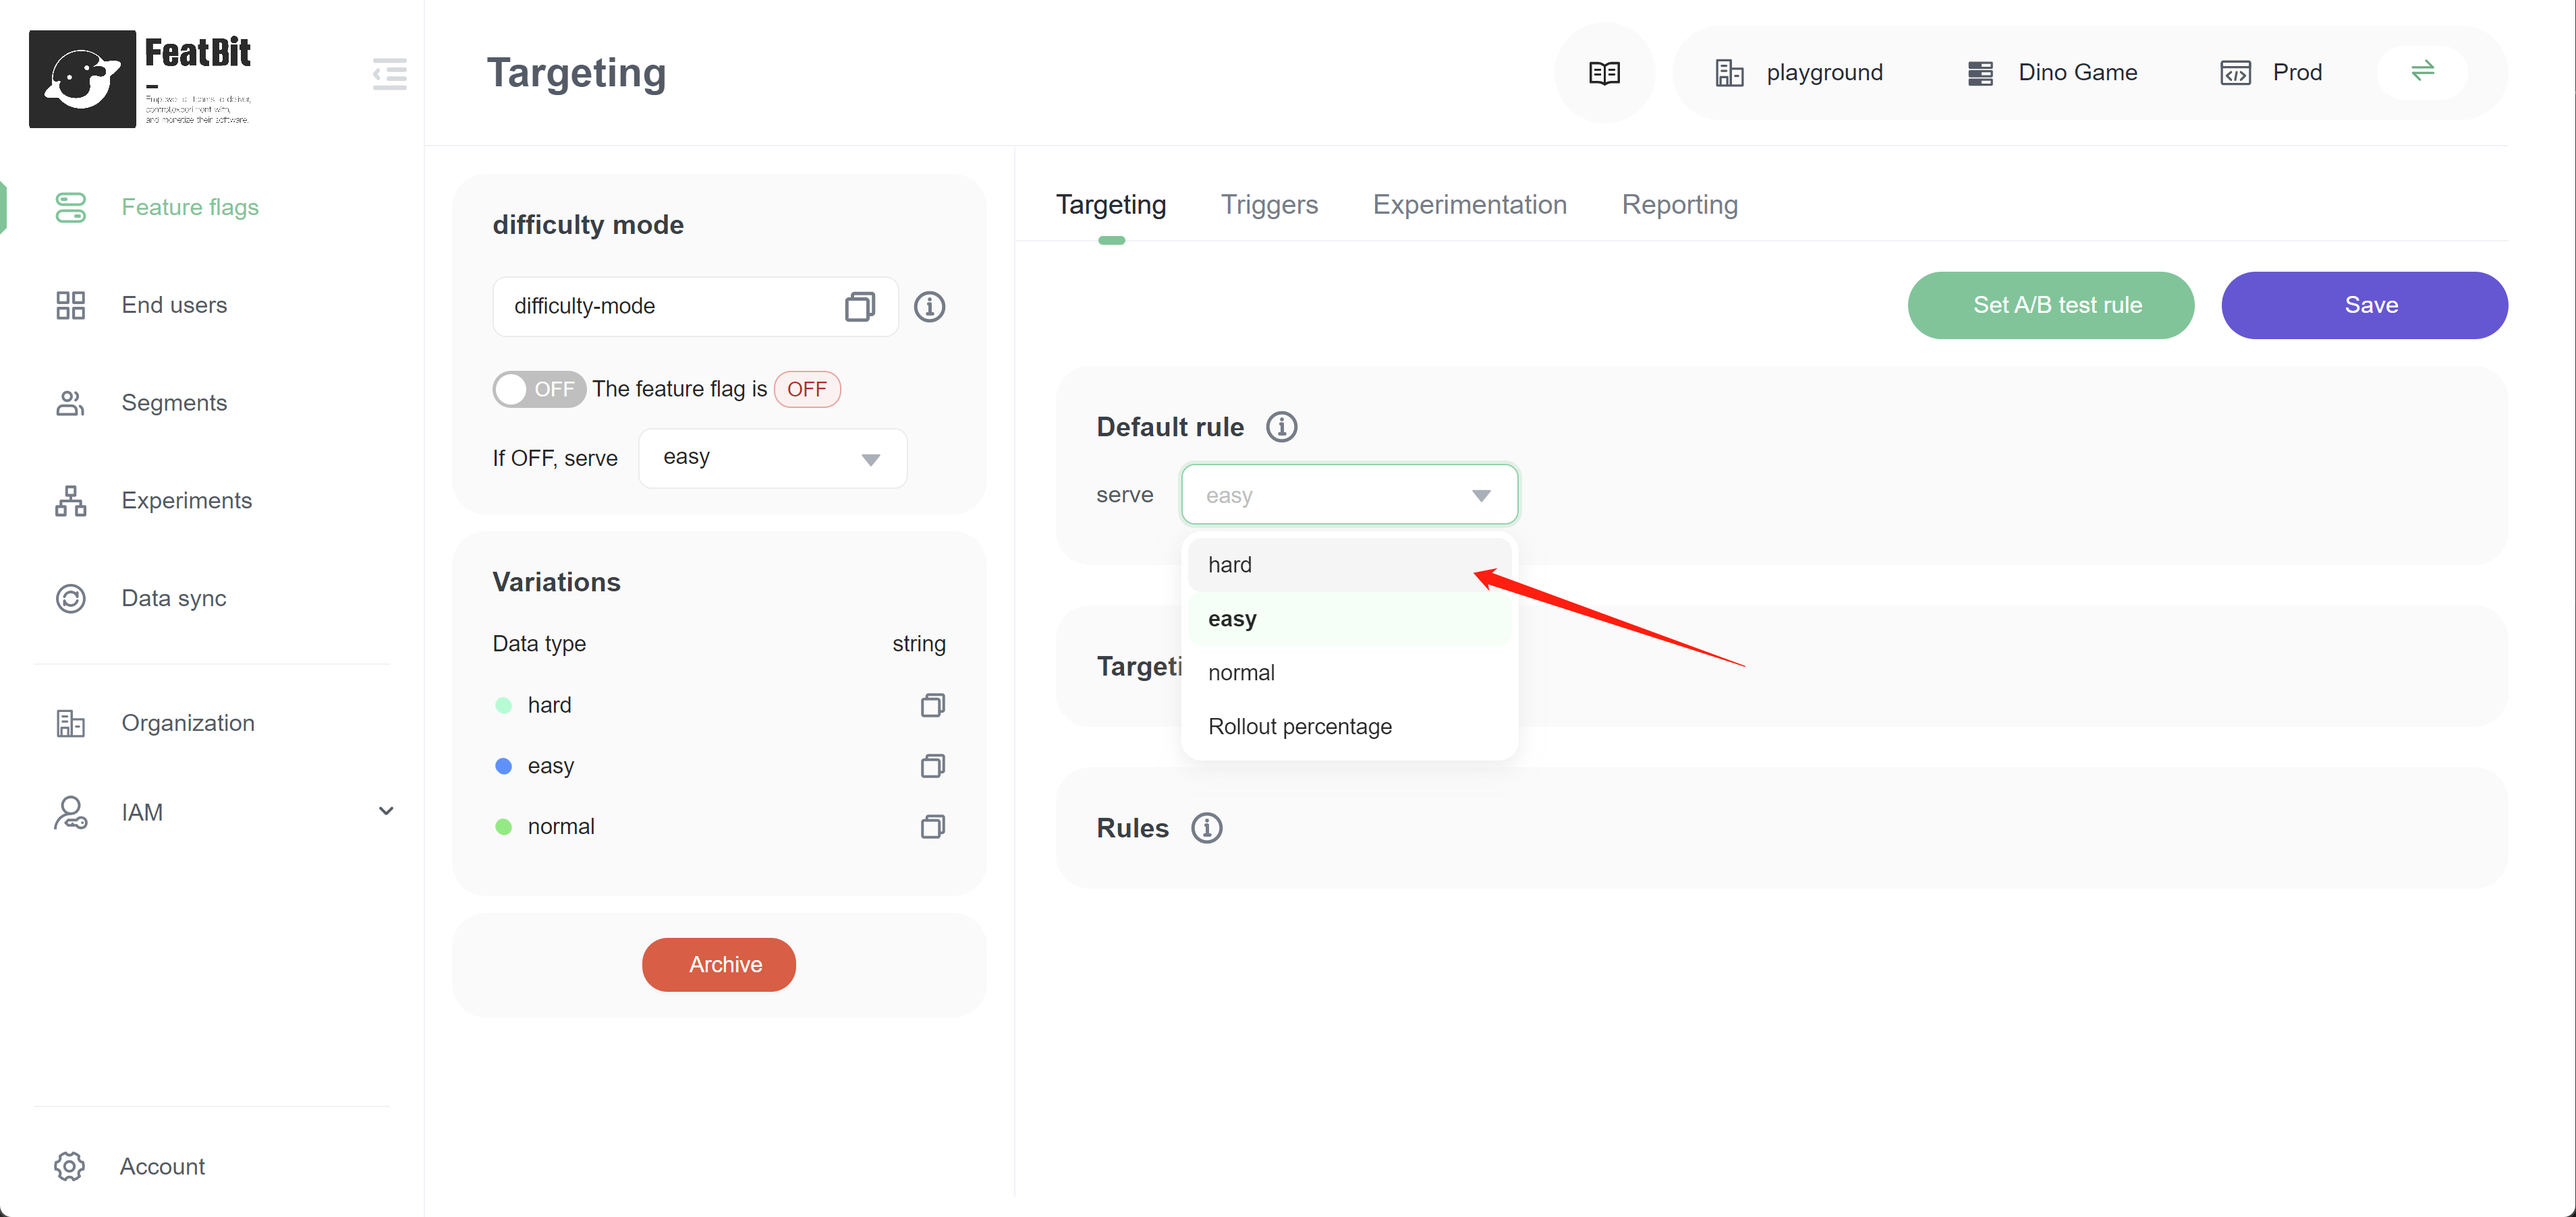
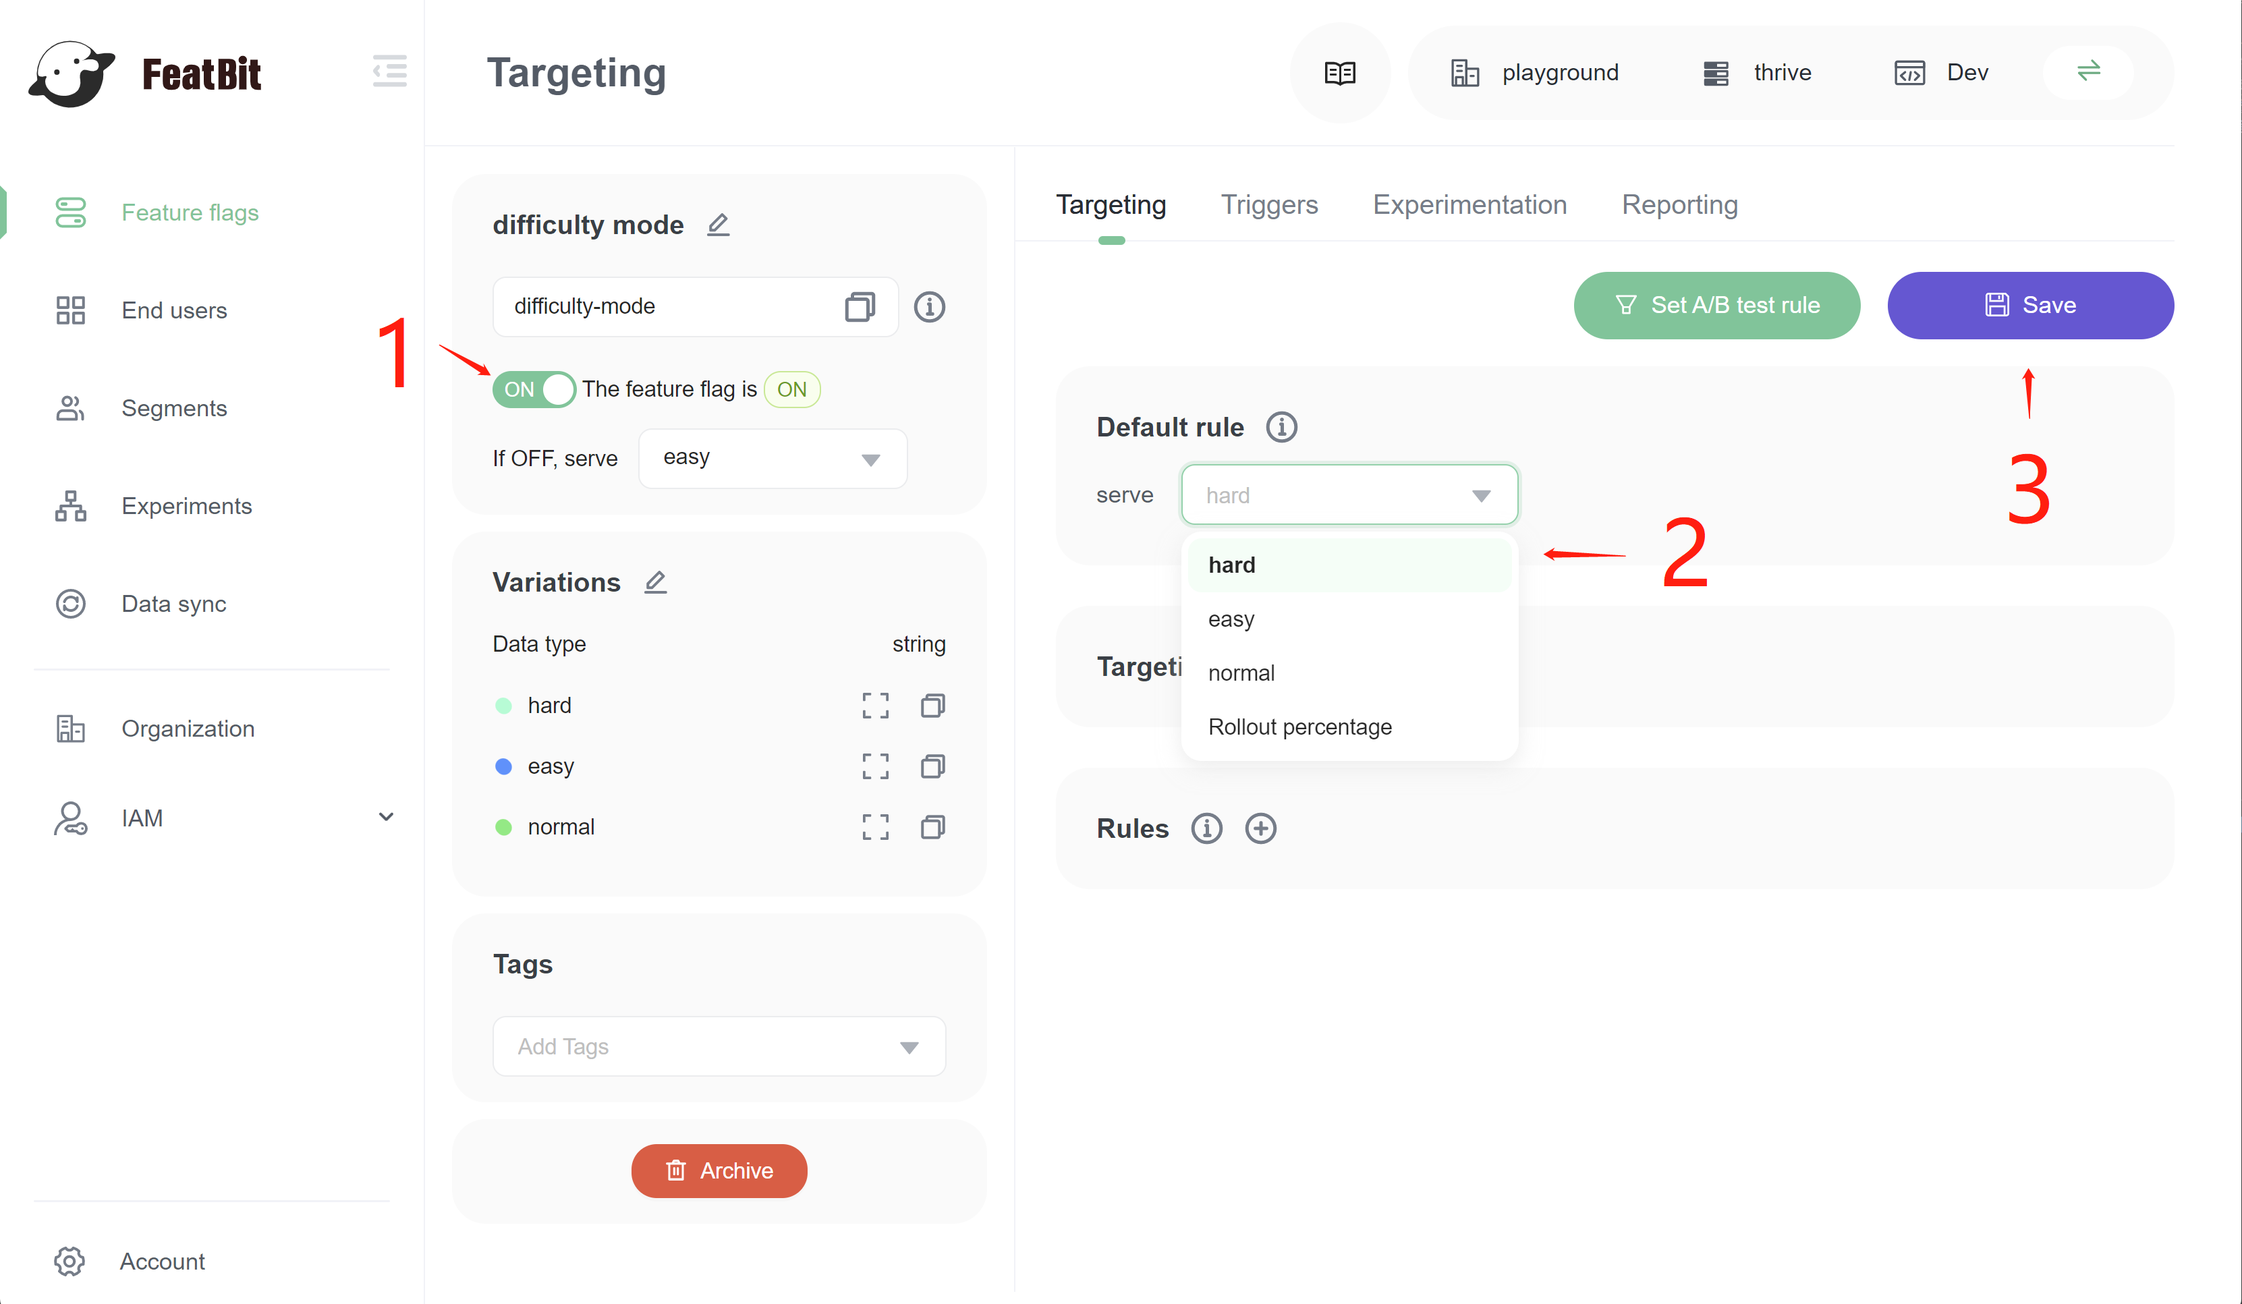
updated the images

diff --git a/samples/dino-game/interactive-demo-vue/src/components/Steps/StepGameDifficulty.vue b/samples/dino-game/interactive-demo-vue/src/components/Steps/StepGameDifficulty.vue
@@ -33,10 +33,14 @@ export default {
                     'normal' mode or 'hard' mode.
                 </p>
                 <p>
-                    Back to the flag list, go to targeting page of feature flag "difficulty mode". Turn on the feature flag, and
-                    find the 'Default rule' dropdown. Choose a flag variation (<strong>"hard"</strong> or
-                    <strong>"normal"</strong> but not "easy") from the dropdown and save.
+                    Back to the flag list, go to targeting page of feature flag "difficulty mode". 
                 </p>
+                <ul>
+                    <li>1. Turn on the feature flag.</li>
+                    <li>2. In 'Default rule' section, choose a flag variation (<strong>"hard"</strong> or
+                    <strong>"normal"</strong> but not "easy") from the dropdown.</li>
+                    <li>3. Save the change of default rule.</li>
+                </ul>
                 <img src="@/assets/steps/ff-switch-difficulty.png" />
             </div>
             <div class="steps-action">
